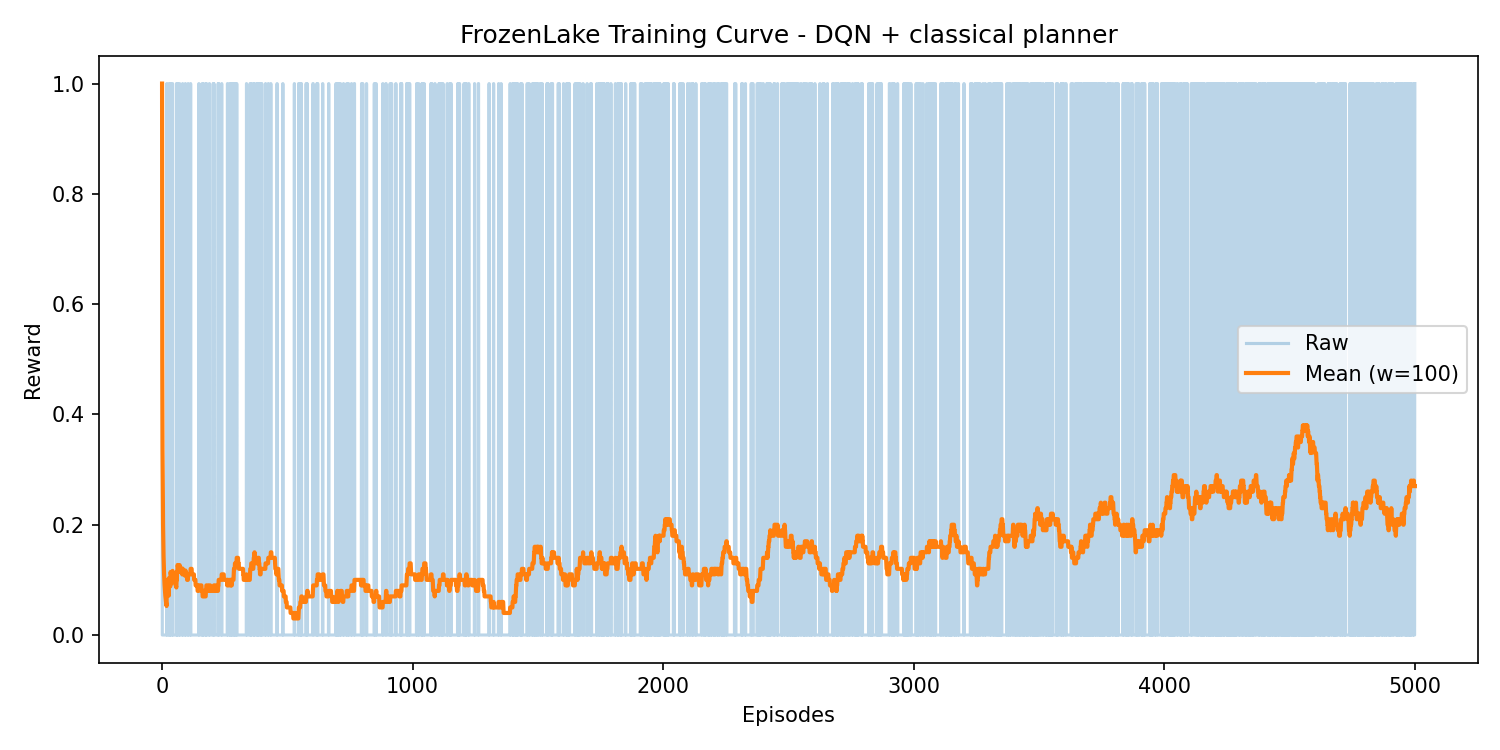
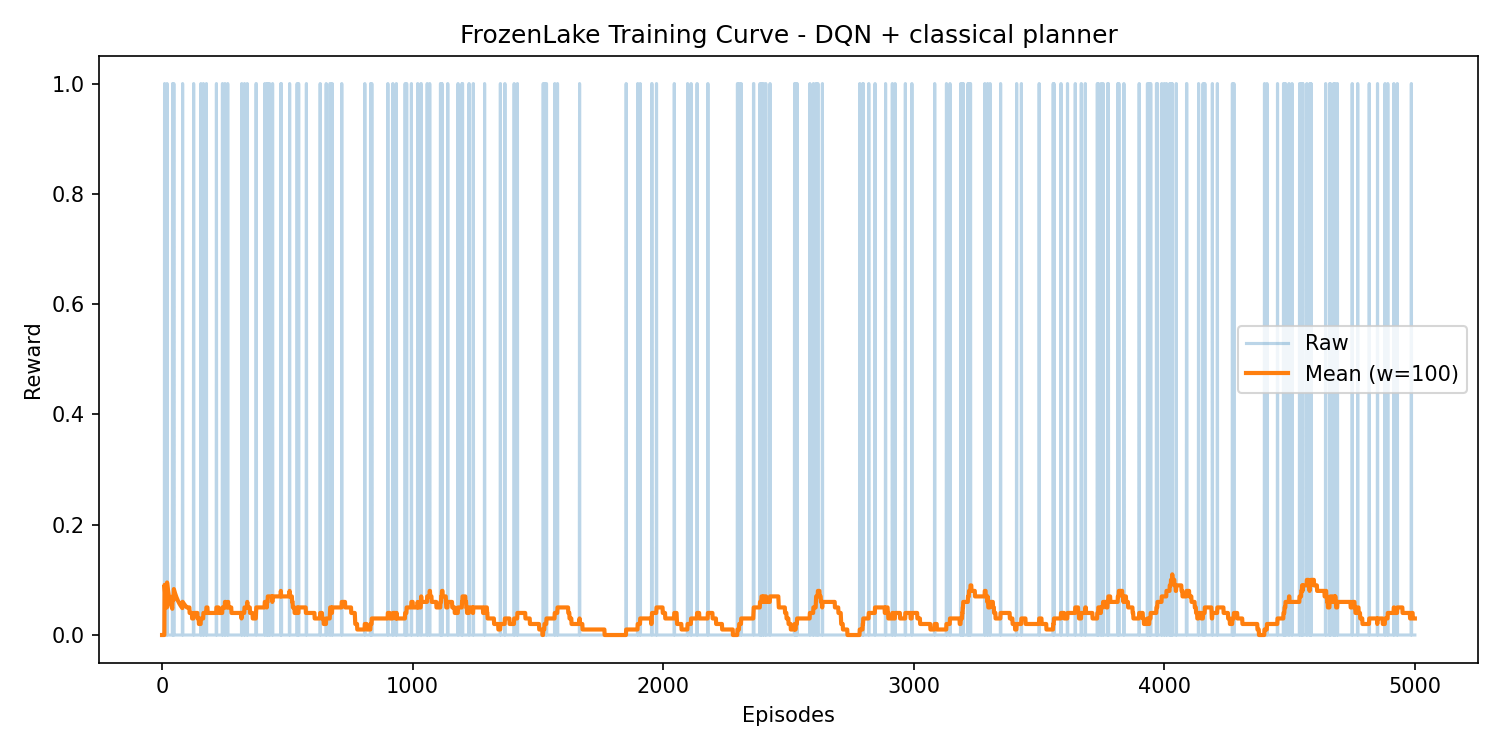
Fix classical planner with nominal action effect

diff --git a/planned-deterministic-frozen-lake/planner.py b/planned-deterministic-frozen-lake/planner.py
@@ -5,10 +5,30 @@ from unified_planning.environment import get_environment
 get_environment().credits_stream = None
 
 
+def _nominal_next_state(s: int, a: int, nrow: int, ncol: int) -> int:
+    # Deterministic nominal movement: LEFT, DOWN, RIGHT, UP.
+    row = s // ncol
+    col = s % ncol
+
+    if a == 0:  # LEFT
+        col = max(0, col - 1)
+    elif a == 1:  # DOWN
+        row = min(nrow - 1, row + 1)
+    elif a == 2:  # RIGHT
+        col = min(ncol - 1, col + 1)
+    elif a == 3:  # UP
+        row = max(0, row - 1)
+
+    return row * ncol + col
+
+
 def define_problem(env, current_state):
     problem = Problem("FrozenLake-v1")
 
     n_states = env.observation_space.n
+    n_row = int(env.unwrapped.nrow)
+    n_col = int(env.unwrapped.ncol)
+    desc = env.unwrapped.desc
 
     # Type (represents the cell of the gridmap)
     Location: Type = UserType("Location")
@@ -29,38 +49,44 @@ def define_problem(env, current_state):
     goal_state = n_states - 1
     problem.add_goal(at(locations[goal_state]))
 
-    # Valid transitions from environment
-    # transitions[s][a] contains  all possible tuples (prob, next_state, reward, done) for the state s and action a
-    transitions = env.unwrapped.P
-    # With slippery environment, there can happen there is more than one (s, next, a), UP wants unique action names,
-    # so we use a set for avoiding duplication
-    action_names: set[str] = set()
-
-    # For all states
+    # Deterministic nominal transitions for planning.
     for s in range(n_states):
+        s_row = s // n_col
+        s_col = s % n_col
+        s_tile = desc[s_row][s_col]
+        s_symbol = s_tile.decode("utf-8") if isinstance(s_tile, bytes) else str(s_tile)
+
+        # No outgoing moves from terminal cells in the planner model.
+        if s_symbol in {"H", "G"}:
+            continue
+
         # For all actions possible
         for a in range(4):
-            for outcome in transitions[s][a]:
-                prob, next_state, reward, done = outcome
+            next_state = _nominal_next_state(s, a, n_row, n_col)
+            n_row = next_state // n_col
+            n_col = next_state % n_col
+            next_tile = desc[n_row][n_col]
+            next_symbol = (
+                next_tile.decode("utf-8")
+                if isinstance(next_tile, bytes)
+                else str(next_tile)
+            )
 
-                if prob == 0:
-                    continue
+            # Do not generate actions that step into holes.
+            if next_symbol == "H":
+                continue
 
-                action_name = f"move_{s}_{next_state}_{a}"
-                if action_name in action_names:
-                    continue
-                action_names.add(action_name)
+            action_name = f"move_{s}_{next_state}_{a}"
+            action = InstantaneousAction(action_name)
 
-                action = InstantaneousAction(action_name)
+            from_l = locations[s]
+            to_l = locations[next_state]
 
-                from_l = locations[s]
-                to_l = locations[next_state]
+            action.add_precondition(at(from_l))
+            action.add_effect(at(from_l), False)
+            action.add_effect(at(to_l), True)
 
-                action.add_precondition(at(from_l))
-                action.add_effect(at(from_l), False)
-                action.add_effect(at(to_l), True)
-
-                problem.add_action(action)
+            problem.add_action(action)
 
     return problem
 

diff --git a/planned-deterministic-frozen-lake/dqn_agent.py b/planned-deterministic-frozen-lake/dqn_agent.py
@@ -16,6 +16,23 @@ import torch.optim as optim
 import planner
 
 
+def format_frozen_lake_state(env, state: int) -> str:
+    """Return an ASCII map with A=agent, S/F/H/G as tile types."""
+    desc = env.unwrapped.desc
+    ncols = int(env.unwrapped.ncol)
+    rows = []
+
+    for r, row in enumerate(desc):
+        rendered_row = []
+        for c, cell in enumerate(row):
+            idx = r * ncols + c
+            symbol = cell.decode("utf-8") if isinstance(cell, bytes) else str(cell)
+            rendered_row.append("A" if idx == state else symbol)
+        rows.append(" ".join(rendered_row))
+
+    return "\n".join(rows)
+
+
 def pick_device() -> torch.device:
     if hasattr(torch.backends, "mps") and torch.backends.mps.is_available():
         return torch.device("mps")
@@ -131,6 +148,9 @@ class DQNAgent:
             self.planner_calls += 1
             problem = planner.define_problem(env, state)
             plan = planner.build_plan(problem)
+            print("current map:")
+            print(format_frozen_lake_state(env, state))
+            print("plan: " + str(plan))
             self._plan_cache[state] = plan
             if plan is None or len(plan) == 0:
                 self.planner_misses += 1
